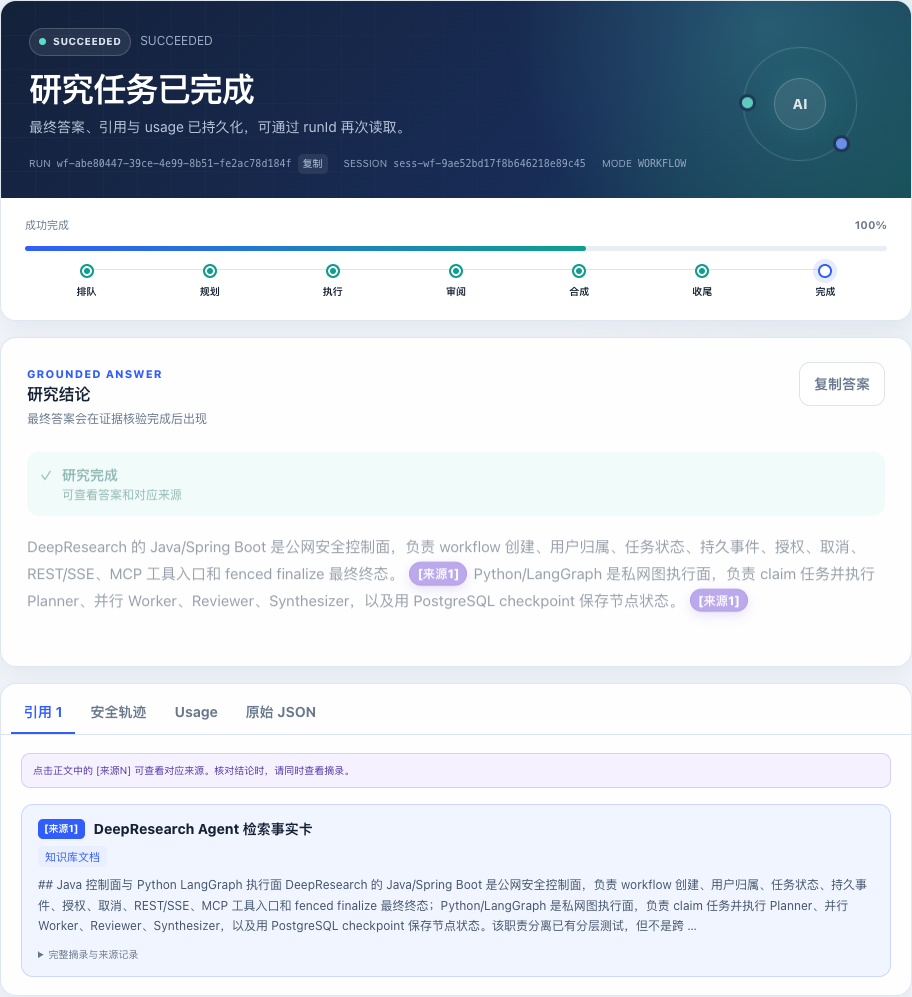
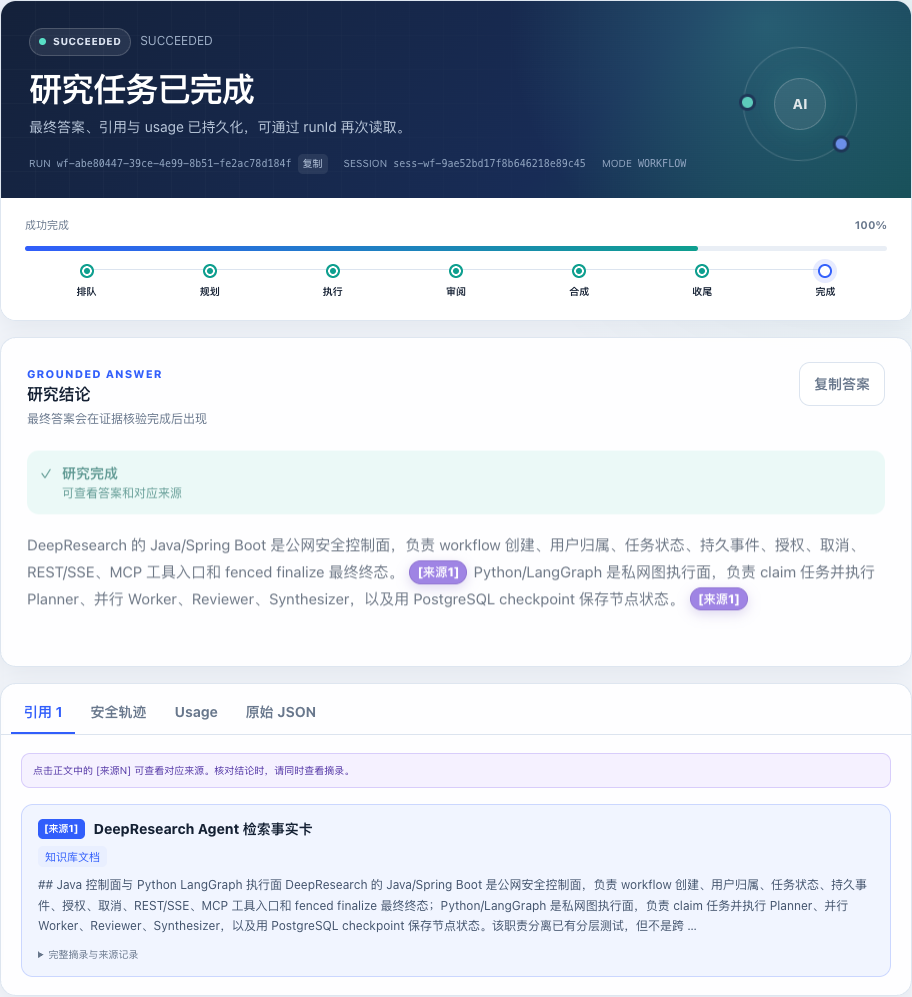
docs: bind final served checks to public fixture source rebuild

Changed region(s): [[0.0307, 0.5286, 0.9518, 0.6219], [0.0614, 0.4664, 0.1842, 0.4975]]

diff --git a/integrations/dify/CITATION_UI_ACCEPTANCE_2026-09-28.md b/integrations/dify/CITATION_UI_ACCEPTANCE_2026-09-28.md
@@ -29,9 +29,11 @@
 
 ## 2026-09-29 统一源码部署与真实页面验收
 
[2 lines of base64/hex data omitted]
 
[2 lines of base64/hex data omitted]
+
+第一次公开档案检查在 `4a3c74c` 被两条虚构凭据 URL 的邮箱形状拦住。测试源改成等价 Unicode 写法，实际 JSON 输入保持相同；6 项 Tavily 单测通过。最终版本再次从源码构建并只更新 app，完整五类只读页面、普通外链及截图核对通过；源码 `src/main` 与首个部署完全相同。首次文档合计误写 9 条来源，实际原始各例为 3+2+1+2+0=8；逐例记录未修改，汇总已更正。失败记录保留，扫描规则未放宽。
 
[1 lines of base64/hex data omitted]
 
@@ -43,7 +45,7 @@
 | JWT 公开资料边界 | SUCCEEDED | 2 | 2 | 是 |
 | 银行信息缺乏支持 | INSUFFICIENT_EVIDENCE | 0 | 0 | 是 |
 
-全部 9 条来源的编号、唯一 ID、实际标题、完整原摘录与 `finalResponse` 匹配；内部 ID 默认折叠。逐个点击全部 12 个正文标记，记录真实 `scrollIntoView` 目标均为各自卡片；刷新保持同一映射。知识库没有虚构 URL，无证据结果为空答零引用。银行场景有相关知识库检索行，但不支持所问值，不把它称为字面零检索。
+全部 8 条来源的编号、唯一 ID、实际标题、完整原摘录与 `finalResponse` 匹配；内部 ID 默认折叠。逐个点击全部 12 个正文标记，记录真实 `scrollIntoView` 目标均为各自卡片；刷新保持同一映射。知识库没有虚构 URL，无证据结果为空答零引用。银行场景有相关知识库检索行，但不支持所问值，不把它称为字面零检索。
 
 实际点击官方卡片，新标签页加载 `https://docs.python.org/3/library/asyncio.html`，观察标题为 Python 3.14.7 documentation 且 `window.opener === null`。这仅验证普通外链，不承诺定位原句，不补证旧版存档、原摘要或省略内容。闭合 run 的真实持久 SSE 共 48 条：读取前 5 条后按游标恢复 43 条，JSON payload 与完整基线逐条一致，包含 `DIFY_STAGE`；全过程新建 workflow POST 为 0。这是已完成记录的游标回放，**不是运行中断线、进程崩溃、取消或远端 stop 的新故障注入**。
 

diff --git a/docs/showcase/EVIDENCE.md b/docs/showcase/EVIDENCE.md
@@ -17,7 +17,7 @@
 | 2026-09-28 | [新目录、新数据库、新数据集复现](RELEASE_REPRODUCTION_2026-09-28.md)与三次浏览器运行 | 八份内容与 DONE 映射一致；有引用答案与空证据结果通过；同 run 旧游标恢复 31 条事件，页面 36 条与持久 trace 一致，断线后无新建 POST | 复用健康外部服务和已发布 app，不是首次完整栈安装；本次受控 SSE 观察不覆盖 Java 重启、取消、全部故障或生产 SLA |
 | 2026-09-28 | [Evidence v8.1 Web](../../integrations/dify/WEB_SEARCH_ACCEPTANCE_2026-09-28.md)：五项冻结 API 与独立浏览器网页运行；两版本全部 12 次尝试保留 | 预期终态 5/5，严格逐句支持 4/5；15 条引用完成 run 绑定/来源复查；网页 URL/摘要展示、同 run SSE 续传与同键幂等回放通过；V16/八份文档保留 | 纯网页 API 的额外“单线程”限定未获所引摘要支持；摘要快照不证明全文或事实/版本兼容性。缺 key/无结果/provider 错误主要是离线 fixture，初版两次超时是真实调用；没有新全37或进程崩溃/remote-stop实测 |
 | 2026-09-29 | [Evidence v15 Query 定向修复](../../integrations/dify/WEB_QUALITY_REPAIR_2026-09-28.md)：不变的 10+6，前六冻结版及开发误判完整保留 | 16/16 预期终态与自身证据/整问覆盖记录审阅通过，47 条发布论断交叉复核；13 个官网场景符合冻结范围；native P95 13.909 秒（n=16） | Codex 记录审阅不是独立人类裁决、全文事实或普遍语义保证；单线程句仅对应明确的 Python 3.6.15 存档，摘要原生省略不补全文；实际输入量增加、可靠费用未知；不是新全37或故障恢复队列 |
-| 2026-09-29 | [统一引用页面验收](../../integrations/dify/CITATION_UI_ACCEPTANCE_2026-09-28.md#2026-09-29-统一源码部署与真实页面验收)：同源码 jar 部署、五类 v15 保存结果 | 9 来源/12 正文标记精确对应、标题/链接/原摘录/刷新通过；KB 无伪造外链，不足空答零引用；普通新标签可打开，闭合 run SSE 48 条按 5+43 完整回放；0 新建 POST | 使用已有模型结果，不是新增答案采样；缓存参与构建；corpus HTTP 401 未修改凭据，部署后只读 SQL 8 hash/DONE 不能当新的 RAGFlow API 内容抓取；不是运行中故障注入或新全37 |
+| 2026-09-29 | [统一引用页面验收](../../integrations/dify/CITATION_UI_ACCEPTANCE_2026-09-28.md#2026-09-29-统一源码部署与真实页面验收)：同源码 jar 部署、五类 v15 保存结果 | 8 来源/12 正文标记精确对应、标题/链接/原摘录/刷新通过；KB 无伪造外链，不足空答零引用；普通新标签可打开，闭合 run SSE 48 条按 5+43 完整回放；0 新建 POST | 使用已有模型结果，不是新增答案采样；缓存参与构建；corpus HTTP 401 未修改凭据，部署后只读 SQL 8 hash/DONE 不能当新的 RAGFlow API 内容抓取；不是运行中故障注入或新全37 |
 
 ## 新一轮验收的最低记录
 
